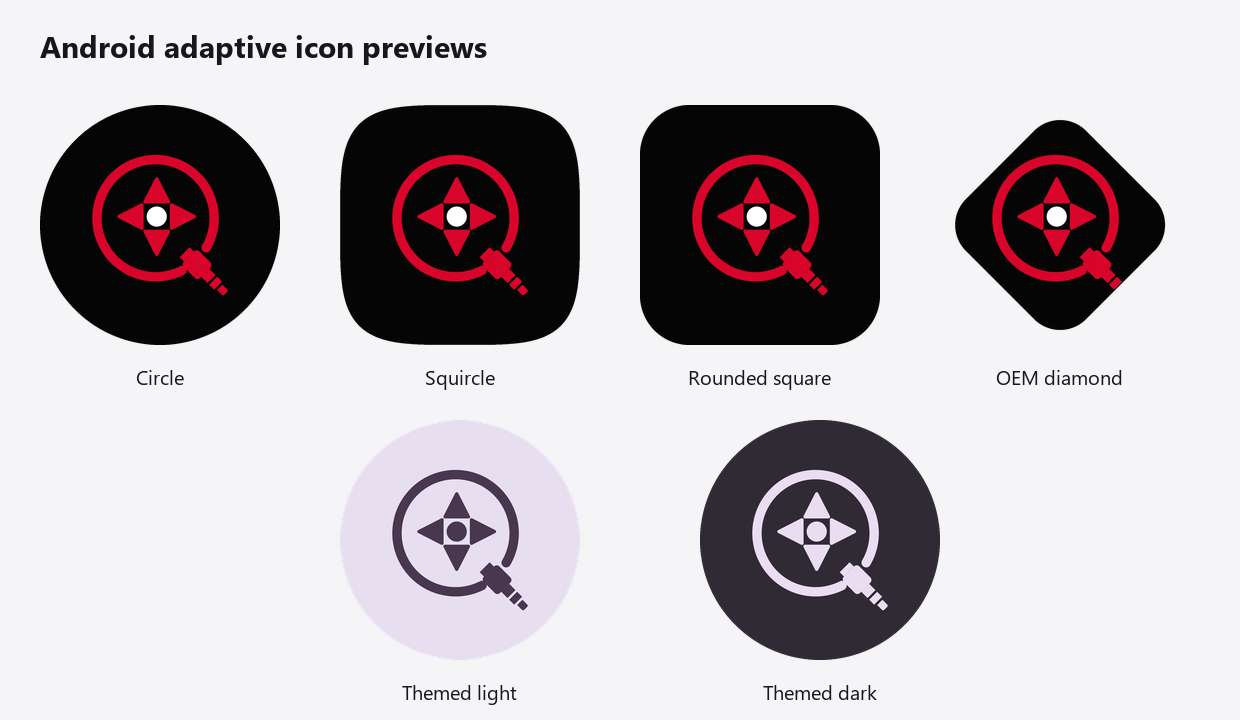
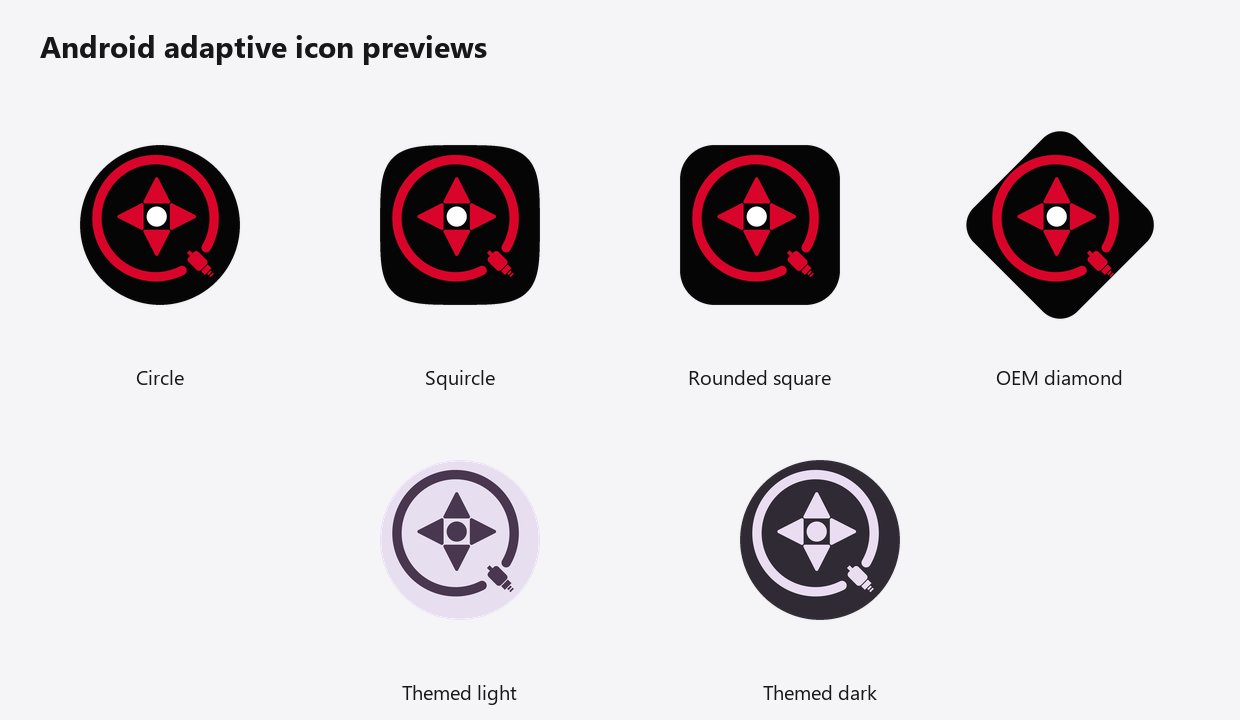
fix: keep adaptive mark inside circular mask

diff --git a/scripts/icon-assets.test.js b/scripts/icon-assets.test.js
@@ -1,6 +1,7 @@
 const { Buffer } = require("node:buffer");
 const fs = require("node:fs");
 const path = require("node:path");
+const zlib = require("node:zlib");
 const { describe, expect, test } = require("@jest/globals");
 
 const root = path.resolve(".");
@@ -22,6 +23,73 @@ function readPngHeader(relativePath) {
 
 function configPathToRelative(configPath) {
   return configPath.replace(/^\.\//, "");
+}
+
+function maxOpaquePixelDistance(relativePath) {
+  const bytes = fs.readFileSync(path.resolve(root, relativePath));
+  const width = bytes.readUInt32BE(16);
+  const height = bytes.readUInt32BE(20);
+  const idatChunks = [];
+  let offset = 8;
+
+  while (offset < bytes.length) {
+    const length = bytes.readUInt32BE(offset);
+    const type = bytes.toString("ascii", offset + 4, offset + 8);
+    if (type === "IDAT") {
+      idatChunks.push(bytes.subarray(offset + 8, offset + 8 + length));
+    }
+    offset += length + 12;
+  }
+
+  const inflated = zlib.inflateSync(Buffer.concat(idatChunks));
+  const bytesPerPixel = 4;
+  const rowLength = width * bytesPerPixel;
+  let sourceOffset = 0;
+  let previous = Buffer.alloc(rowLength);
+  let maxDistanceSquared = 0;
+
+  for (let y = 0; y < height; y += 1) {
+    const filter = inflated[sourceOffset];
+    sourceOffset += 1;
+    const row = Buffer.alloc(rowLength);
+
+    for (let x = 0; x < rowLength; x += 1) {
+      const raw = inflated[sourceOffset];
+      sourceOffset += 1;
+      const left = x >= bytesPerPixel ? row[x - bytesPerPixel] : 0;
+      const above = previous[x];
+      const upperLeft = x >= bytesPerPixel ? previous[x - bytesPerPixel] : 0;
+      let predictor = 0;
+
+      if (filter === 1) predictor = left;
+      else if (filter === 2) predictor = above;
+      else if (filter === 3) predictor = Math.floor((left + above) / 2);
+      else if (filter === 4) {
+        const estimate = left + above - upperLeft;
+        const leftDistance = Math.abs(estimate - left);
+        const aboveDistance = Math.abs(estimate - above);
+        const upperLeftDistance = Math.abs(estimate - upperLeft);
+        predictor =
+          leftDistance <= aboveDistance && leftDistance <= upperLeftDistance
+            ? left
+            : aboveDistance <= upperLeftDistance
+              ? above
+              : upperLeft;
+      }
+
+      row[x] = (raw + predictor) & 0xff;
+      if (x % bytesPerPixel === 3 && row[x] > 0) {
+        const pixelX = Math.floor(x / bytesPerPixel) + 0.5;
+        const pixelY = y + 0.5;
+        const dx = pixelX - width / 2;
+        const dy = pixelY - height / 2;
+        maxDistanceSquared = Math.max(maxDistanceSquared, dx * dx + dy * dy);
+      }
+    }
+    previous = row;
+  }
+
+  return Math.sqrt(maxDistanceSquared);
 }
 
 describe("app icon assets", () => {
@@ -81,6 +149,19 @@ describe("app icon assets", () => {
     expect(splashPlugin.backgroundColor).toBe("#050505");
     expect(splashPlugin.dark.backgroundColor).toBe("#050505");
   });
+
+  test.each([
+    ["adaptive foreground", appJson.expo.android.adaptiveIcon.foregroundImage],
+    ["adaptive monochrome", appJson.expo.android.adaptiveIcon.monochromeImage],
+  ])(
+    "keeps the %s inside Android's circular safe zone",
+    (_name, configPath) => {
+      const guaranteedRadius = (1024 * 33) / 108;
+      expect(
+        maxOpaquePixelDistance(configPathToRelative(configPath)),
+      ).toBeLessThanOrEqual(guaranteedRadius);
+    },
+  );
 
   test("keeps a flat, mask-free vector master and a separate Play listing image", () => {
     const source = fs.readFileSync(
